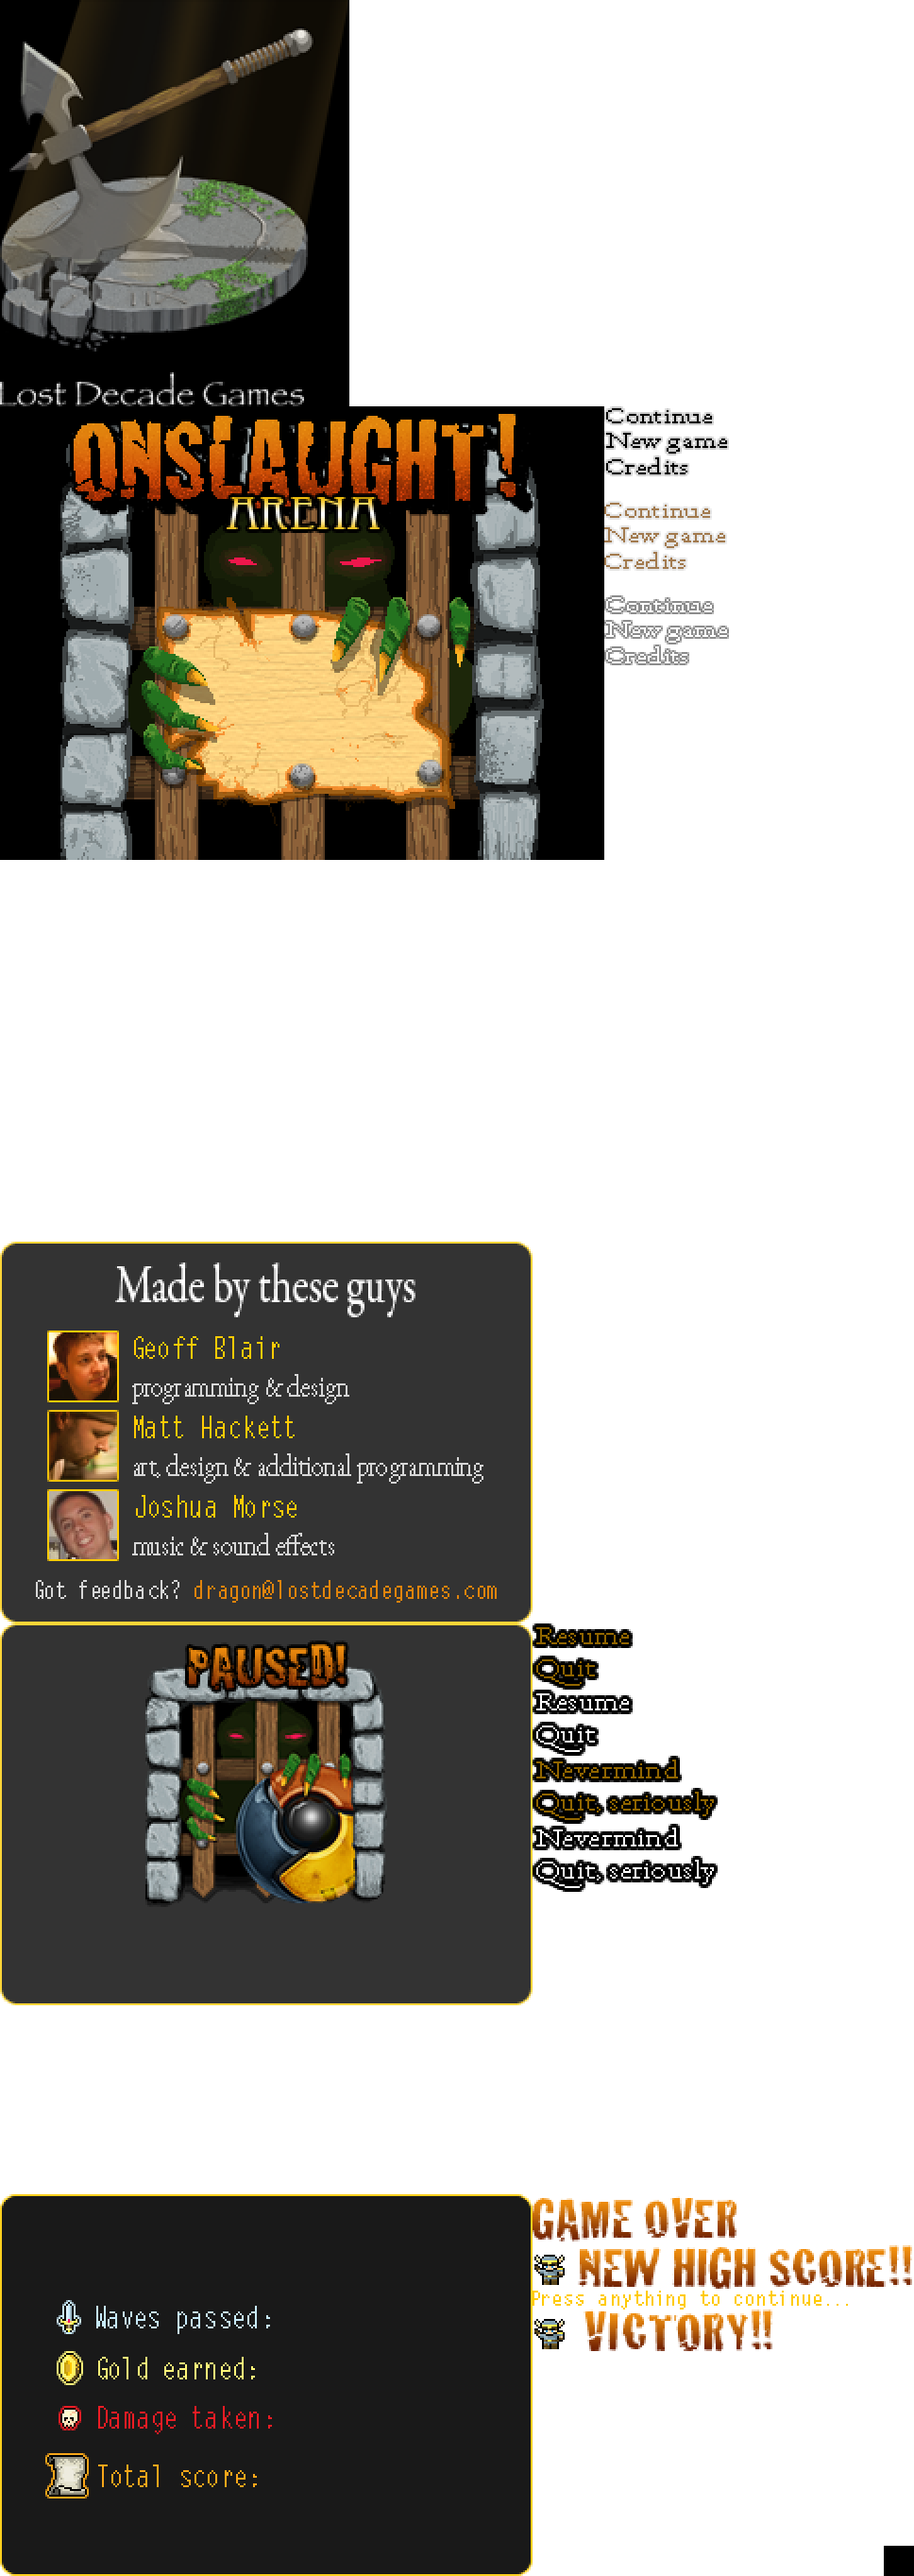
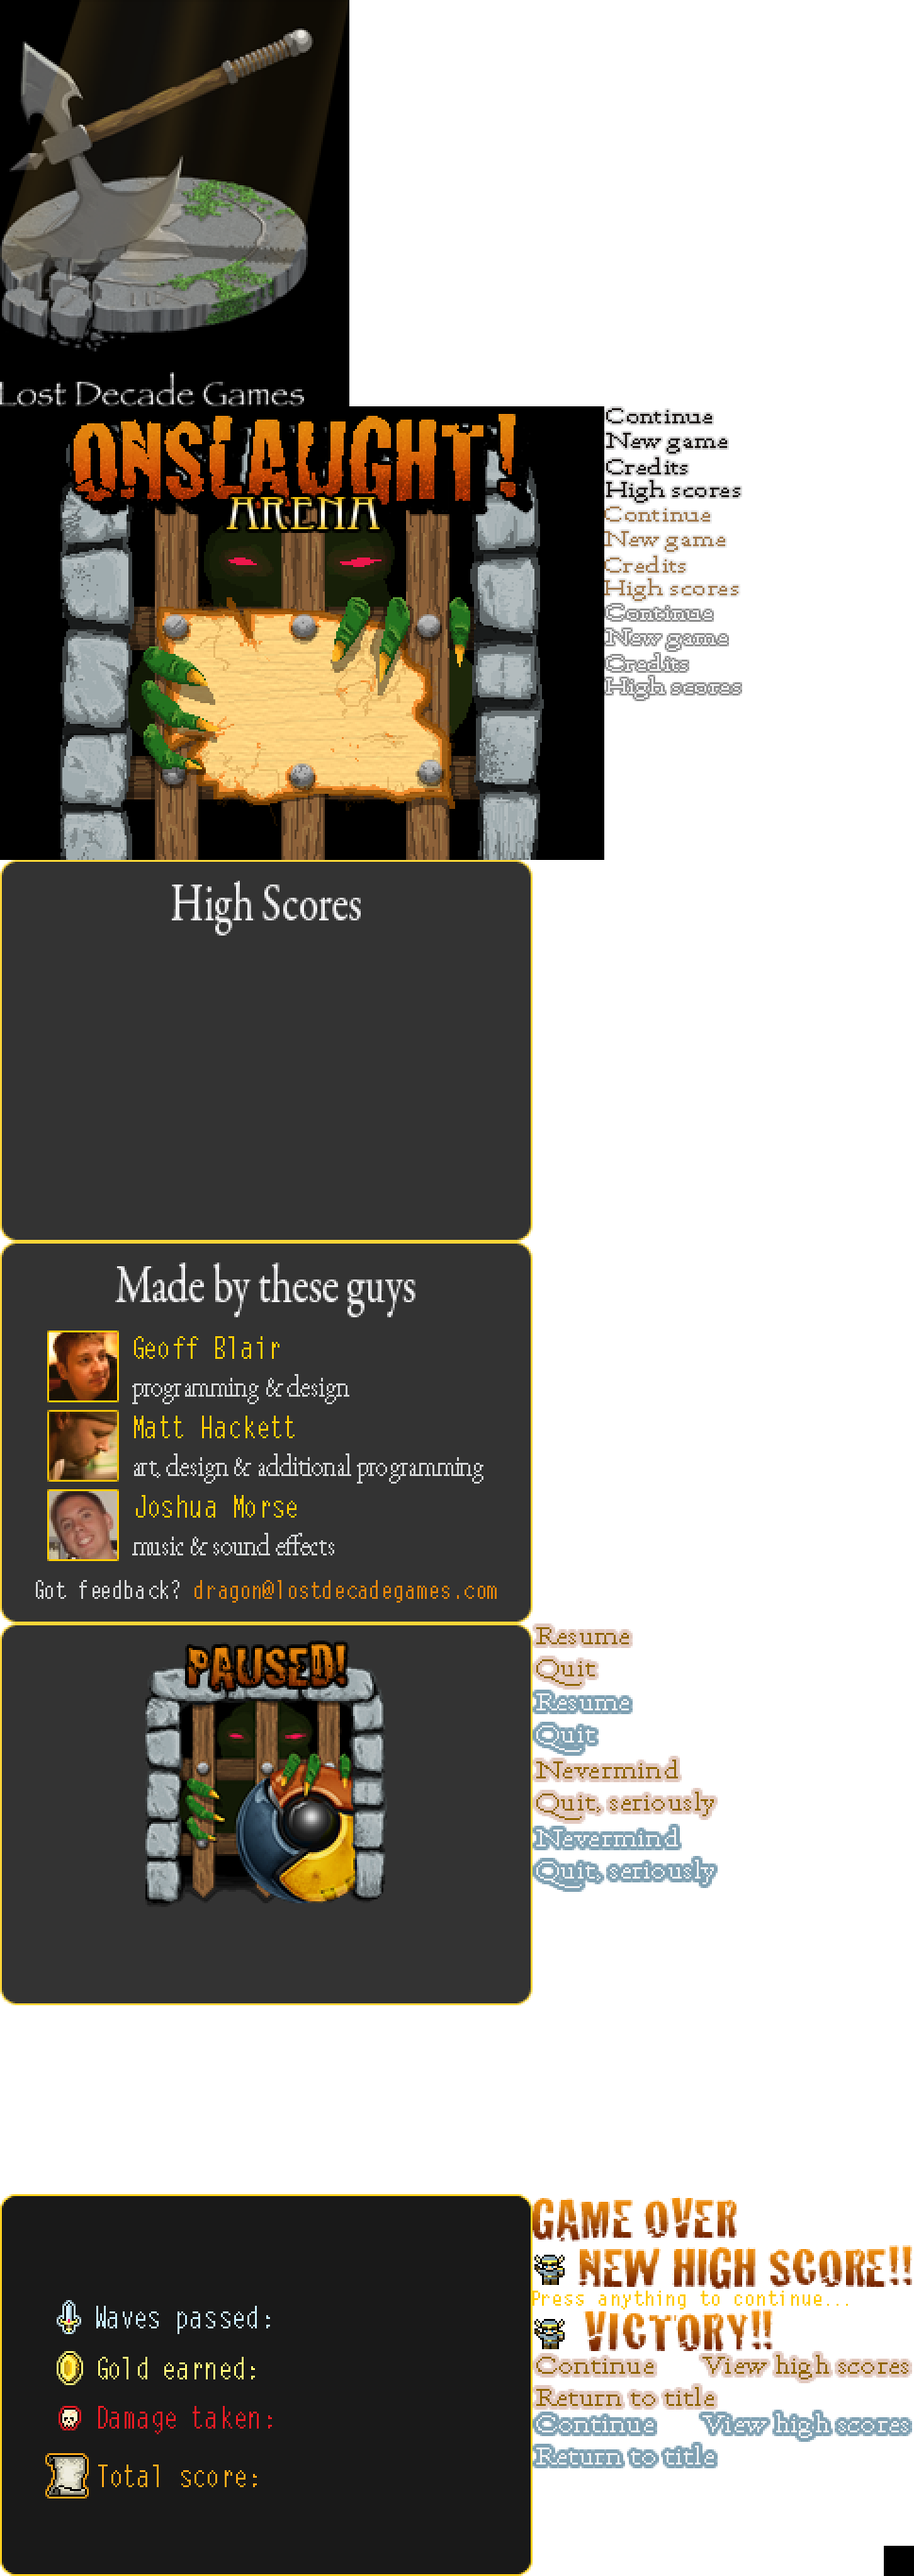
tons of visual tweaks and new showHighScore variable -- need to get data from AE somehow

diff --git a/htdocs/js/engine.js b/htdocs/js/engine.js
@@ -13,6 +13,9 @@ var SCREEN_HEIGHT = 480;
 var TEXT_HEIGHT = 20; // Ehh, kind of a hack, because stupid ctx.measureText only gives width (why??).
 var TUTORIAL_HEIGHT = 52;
 
+var COLOR_BLACK = "rgb(0, 0, 0)";
+var COLOR_WHITE = "rgb(241, 241, 242)";
+
 /**
  * Creates a new Engine object
  * @constructor
@@ -29,6 +32,7 @@ horde.Engine = function horde_Engine () {
 	this.view = new horde.Size(SCREEN_WIDTH, SCREEN_HEIGHT);
 	this.images = null;
 	this.debug = false; // Debugging toggle
+	this.showHighScores = true;
 	this.konamiEntered = false;
 
 	this.gateDirection = ""; // Set to "up" or "down"
@@ -1309,10 +1313,6 @@ proto.update = function horde_Engine_proto_update () {
 
 	switch (this.state) {
 
-		case "loading":
-			this.render();
-			break;
-		
 		case "intro":
 			this.updateLogo(elapsed);
 			this.render();
@@ -1325,6 +1325,11 @@ proto.update = function horde_Engine_proto_update () {
 			break;
 
 		case "credits":
+			this.handleInput();
+			this.render();
+			break;
+
+		case "high_scores":
 			this.handleInput();
 			this.render();
 			break;
@@ -1805,8 +1810,8 @@ proto.updateTutorial = function horde_Engine_proto_updateTutorial (elapsed) {
 			this.tutorialY = 0;
 			this.tutorialDirection = null;
 
-			if (this.tutorialIndex >= 6) {
-				this.hideTutorialTimer.start(5000);
+			if (this.tutorialIndex >= 4) {
+				this.hideTutorialTimer.start(4000);
 			}
 		}
 	}
@@ -2321,7 +2326,6 @@ proto.handleInput = function horde_Engine_proto_handleInput () {
 		if (this.keyboard.isKeyPressed(keys.P) || this.keyboard.isKeyPressed(keys.ESCAPE)) {
 			this.togglePause();
 			this.keyboard.clearKeys();
-			this.nextTutorial(6);
 			return;
 		}
 
@@ -2332,7 +2336,6 @@ proto.handleInput = function horde_Engine_proto_handleInput () {
 		// Toggle sound with "M" for "mute".
 		if (this.keyboard.isKeyPressed(77)) {
 			horde.sound.toggleMuted();
-			this.nextTutorial(5);
 		}
 
 		// Code: lddqd = god mode
@@ -2459,7 +2462,7 @@ proto.handleInput = function horde_Engine_proto_handleInput () {
 
 		usingPointerOptions = true;
 
-		// Konomi code! Hit Points *= 3
+		// Konami code! Hit Points *= 3
 		if (!this.konamiEntered && this.keyboard.historyMatch(horde.Keyboard.konamiCode)) {
 			horde.sound.play("code_entered");
 			this.konamiEntered = true;
@@ -2510,6 +2513,20 @@ proto.handleInput = function horde_Engine_proto_handleInput () {
 			}
 		}
 
+		// High scores
+		if (this.showHighScores) {
+			startY += POINTER_HEIGHT;
+			if (
+				(mouseV.x >= startX && mouseV.x <= stopX)
+				&& (mouseV.y >= startY && mouseV.y < (startY + 20))
+			) {
+				if (this.mouse.hasMoved && this.pointerY !== 3) newPointerY = 3;
+				if (this.mouse.isButtonDown(buttons.LEFT)) {
+					this.keyboard.keyStates[keys.SPACE] = true;
+				}
+			}
+		}
+
 		if (kb.isKeyPressed(keys.ENTER) || kb.isKeyPressed(keys.SPACE)) {
 
 			horde.sound.play("select_pointer");
@@ -2544,6 +2561,9 @@ proto.handleInput = function horde_Engine_proto_handleInput () {
 				case 2: // Credits
 					this.state = "credits";
 					break;
+				case 3: // High scores
+					this.state = "high_scores";
+					break;
 			}
 
 		}
@@ -2552,7 +2572,7 @@ proto.handleInput = function horde_Engine_proto_handleInput () {
 
 	if (
 		(this.state === "credits")
-		//|| (this.state === "how_to_play")
+		|| (this.state === "high_scores")
 	) {
 		if (this.keyboard.isAnyKeyPressed() || this.mouse.isAnyButtonDown()) {
 			kb.clearKeys();
@@ -2822,13 +2842,6 @@ proto.render = function horde_Engine_proto_render () {
 
 	switch (this.state) {
 
-		case "loading":
-			ctx.save();
-			ctx.fillStyle = "rgb(255, 0, 0)";
-			ctx.fillRect(0, 0, this.view.width, this.view.height);
-			ctx.restore();
-			break;
-		
 		// Company Logo
 		case "intro":
 			this.drawLogo(ctx);
@@ -2845,6 +2858,12 @@ proto.render = function horde_Engine_proto_render () {
 		case "credits":
 			this.drawTitle(ctx);
 			this.drawCredits(ctx);
+			break;
+
+		// High Scores
+		case "high_scores":
+			this.drawTitle(ctx);
+			this.drawHighScores(ctx);
 			break;
 
 		case "intro_cinematic":
@@ -2905,7 +2924,7 @@ proto.drawWaveText = function horde_Engine_proto_drawWaveText (ctx) {
 		b.font = ("Bold " + size + "px Cracked");
 		b.textBaseline = "top";
 		b.lineWidth = 3;
-		b.strokeStyle = "rgb(0, 0, 0)";
+		b.strokeStyle = COLOR_BLACK;
 		b.fillStyle = "rgb(230, 103, 8)";
 
 		var metrics = b.measureText(text);
@@ -2960,7 +2979,7 @@ proto.drawGameOver = function horde_Engine_proto_drawGameOver (ctx) {
 	ctx.save();
 	ctx.globalAlpha = this.gameOverAlpha;
 	if (this.wonGame) {
-		ctx.fillStyle = "rgb(0, 0, 0)";
+		ctx.fillStyle = COLOR_BLACK;
 	} else {
 		ctx.fillStyle = "rgb(215, 25, 32)"; // red
 	}
@@ -3139,7 +3158,7 @@ proto.drawLogo = function horde_Engine_proto_drawLogo (ctx) {
 
 	// Clear the screen
 	ctx.save();
-	ctx.fillStyle = "rgb(0, 0, 0)";
+	ctx.fillStyle = COLOR_BLACK;
 	ctx.fillRect(0, 0, this.view.width, this.view.height);
 	ctx.restore();
 		
@@ -3205,16 +3224,14 @@ proto.drawTutorial = function horde_Engine_proto_drawTutorial (ctx) {
 	ctx.textAlign = "center";
 
 	var tips = [
-		"Tip 1/6: Use the WASD keys to move the character.",
-		"Tip 2/6: Throw weapons with the arrow keys.",
-		"Tip 3/6: Or use the mouse to aim with the target reticle.",
-		"Tip 4/6: And throw weapons with the left mouse button.",
-		"Tip 5/6: Press M to toggle muting.",
-		"Tip 6/6: Press the escape (ESC) key to pause.",
+		"Tip 1/4: Use the WASD keys to move the character.",
+		"Tip 2/4: Throw weapons with the arrow keys.",
+		"Tip 3/4: Or use the mouse to aim with the target reticle.",
+		"Tip 4/4: And throw weapons with the left mouse button.",
 		"Collect gold and kill monsters to raise your score. Have fun!"
 	];
 
-	ctx.fillStyle = "rgb(0, 0, 0)";
+	ctx.fillStyle = COLOR_BLACK;
 	ctx.fillText(tips[this.tutorialIndex], 322, (this.tutorialY + 36));
 
 	ctx.fillStyle = "rgb(230, 230, 230)";
@@ -3312,9 +3329,9 @@ proto.drawObject = function horde_Engine_proto_drawObject (ctx, o) {
 		var hpHeight = 8;
 		var width = (hpWidth - Math.round((hpWidth * o.wounds) / o.hitPoints));
 
-		ctx.fillStyle = "rgb(255, 255, 255)";
+		ctx.fillStyle = COLOR_WHITE;
 		ctx.fillRect(-(o.size.width / 2), (o.size.height / 2), o.size.width, hpHeight);
-		ctx.fillStyle = "rgb(0, 0, 0)";
+		ctx.fillStyle = COLOR_BLACK;
 		ctx.fillRect(-(o.size.width / 2) + 1, ((o.size.height / 2) + 1), (o.size.width - 2), (hpHeight - 2));
 		ctx.fillStyle = this.getBarColor(o.hitPoints, (o.hitPoints - o.wounds));
 		ctx.fillRect(-(o.size.width / 2) + 1, ((o.size.height / 2) + 1), width, (hpHeight - 2));
@@ -3419,10 +3436,10 @@ proto.drawUI = function horde_Engine_proto_drawUI (ctx) {
 
 	// Outside border
 	ctx.save();
-	ctx.fillStyle = "rgb(255, 255, 255)";
+	ctx.fillStyle = COLOR_WHITE;
 	ctx.fillRect(bar.x - 2, bar.y - 2, bar.width + 2, bar.height + 4);
 	ctx.fillRect(bar.x + bar.width, bar.y, 2, bar.height);
-	ctx.fillStyle = "rgb(0, 0, 0)";
+	ctx.fillStyle = COLOR_BLACK;
 	ctx.fillRect(bar.x, bar.y, bar.width, bar.height);
 
 	// The bar itself
@@ -3466,7 +3483,7 @@ proto.drawUI = function horde_Engine_proto_drawUI (ctx) {
 	// Draw gold amount and weapon count
 	ctx.save();
 	ctx.textAlign = "right";
-	ctx.fillStyle = "rgb(255, 255, 255)";
+	ctx.fillStyle = COLOR_WHITE;
 	ctx.font = "Bold 38px Cracked";
 
 	var totalScore = this.getTotalScore();
@@ -3484,7 +3501,6 @@ proto.drawUI = function horde_Engine_proto_drawUI (ctx) {
  */
 proto.drawTitle = function horde_Engine_proto_drawTitle (ctx) {
 
-	var black = "rgb(0, 0, 0)";
 	var grey = "rgb(230, 230, 230)";
 	
 	ctx.drawImage(
@@ -3499,7 +3515,7 @@ proto.drawTitle = function horde_Engine_proto_drawTitle (ctx) {
 	ctx.font = "Bold 36px Cracked";
 	ctx.textAlign = "center";
 
-	ctx.fillStyle = black;
+	ctx.fillStyle = COLOR_BLACK;
 	ctx.fillText(highScore, 322, 456);
 
 	ctx.fillStyle = grey;
@@ -3512,7 +3528,7 @@ proto.drawTitle = function horde_Engine_proto_drawTitle (ctx) {
 	ctx.font = "Bold 14px Monospace";
 	ctx.textAlign = "right";
 
-	ctx.fillStyle = black;
+	ctx.fillStyle = COLOR_BLACK;
 	ctx.fillText(version, 638, 478);
 
 	ctx.fillStyle = grey;
@@ -3524,7 +3540,7 @@ proto.drawTitle = function horde_Engine_proto_drawTitle (ctx) {
 	ctx.save();
 	ctx.font = "Bold 14px Monospace";
 
-	ctx.fillStyle = black;
+	ctx.fillStyle = COLOR_BLACK;
 	ctx.fillText(copyright, 6, 478);
 
 	ctx.fillStyle = grey;
@@ -3562,9 +3578,9 @@ proto.drawTitlePointerOptions = function horde_Engine_proto_drawTitlePointerOpti
 
 	// Continue
 	if (this.canContinue()) {
-		spriteY = ((this.pointerY == 0) ? 630 : 430);
+		spriteY = ((this.pointerY == 0) ? 638 : 430);
 	} else {
-		spriteY = 530;
+		spriteY = 538;
 	}
 	ctx.drawImage(
 		this.preloader.getImage("ui"),
@@ -3573,7 +3589,7 @@ proto.drawTitlePointerOptions = function horde_Engine_proto_drawTitlePointerOpti
 	);
 
 	// New game
-	spriteY = ((this.pointerY == 1) ? 656 : 456);
+	spriteY = ((this.pointerY == 1) ? 664 : 456);
 	ctx.drawImage(
 		this.preloader.getImage("ui"),
 		640, spriteY, 132, 26,
@@ -3581,12 +3597,22 @@ proto.drawTitlePointerOptions = function horde_Engine_proto_drawTitlePointerOpti
 	);
 
 	// Credits
-	spriteY = ((this.pointerY == 2) ? 682 : 482);
+	spriteY = ((this.pointerY == 2) ? 690 : 482);
 	ctx.drawImage(
 		this.preloader.getImage("ui"),
 		640, spriteY, 90, 22,
 		POINTER_X, (startY + (POINTER_HEIGHT * 2)), 90, 22
 	);
+
+	// High scores
+	if (this.showHighScores) {
+		spriteY = ((this.pointerY == 3) ? 714 : 506);
+		ctx.drawImage(
+			this.preloader.getImage("ui"),
+			640, spriteY, 146, 28,
+			POINTER_X, (startY + (POINTER_HEIGHT * 3)), 146, 28
+		);
+	}
 
 };
 
@@ -3641,12 +3667,15 @@ proto.initOptions = function () {
 
 			if (this.canContinue()) {
 				this.pointerY = 0;
-				this.numPointerOptions = 2;
 				this.pointerOptionsStart = 0;
 			} else {
 				this.pointerY = 1;
-				this.numPointerOptions = 2;
 				this.pointerOptionsStart = 1;
+			}
+			if (this.showHighScores) {
+				this.numPointerOptions = 3;
+			} else {
+				this.numPointerOptions = 2;
 			}
 			break;
 		case "running":
@@ -3660,7 +3689,7 @@ proto.initOptions = function () {
 
 };
 
-proto.drawHowToPlay = function horde_Engine_proto_drawHowToPlay (ctx) {
+proto.drawHighScores = function horde_Engine_proto_drawHighScores (ctx) {
 	ctx.save();
 	ctx.globalAlpha = 0.5;
 	ctx.fillRect(0, 0, this.view.width, this.view.height);
@@ -3796,7 +3825,7 @@ proto.drawDebugInfo = function horde_Engine_proto_drawDebugInfo (ctx) {
 	
 	// Debugging info
 	ctx.save();
-	ctx.fillStyle = "rgb(255, 255, 255)";
+	ctx.fillStyle = COLOR_WHITE;
 	ctx.font = "Bold 20px Monospace";
 	ctx.fillText("Elapsed: " + this.lastElapsed, 10, 20);
 	ctx.textAlign = "right";
